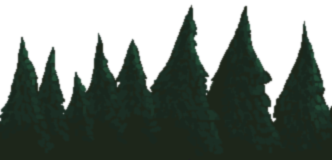
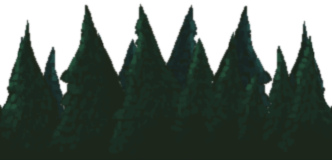
Increase view quality

diff --git a/js/drawing.js b/js/drawing.js
@@ -7,8 +7,8 @@ game.drawTile = function (tileColumn, tileRow, x, y) {
 		tileRow * game.options.tileHeight,
 		game.options.tileWidth,
 		game.options.tileHeight,
-		x * game.options.tileWidth - Math.round(game.player.x) + Math.round(game.canvas.width / 2 + game.options.tileWidth / 2),
-		y * game.options.tileHeight - Math.round(game.player.y) + Math.round(game.canvas.width / 2 + game.options.tileHeight / 2),
+		x * game.options.tileWidth - Math.round(game.player.x) + Math.round(game.options.canvasWidth / 2 + game.options.tileWidth / 2),
+		y * game.options.tileHeight - Math.round(game.player.y) + Math.round(game.options.canvasHeight / 2 + game.options.tileHeight / 2),
 		game.options.tileWidth,
 		game.options.tileHeight
 	)
@@ -29,8 +29,8 @@ game.drawPlayer = function () {
 		actualPlayerTile.tileRow * game.options.tileHeight,
 		game.options.tileWidth,
 		game.options.tileHeight,
-		Math.round(game.canvas.width / 2 - game.options.tileWidth / 2),
-		game.canvas.height / 2 - game.options.tileHeight / 2,
+		Math.round(game.options.canvasWidth / 2 - game.options.tileWidth / 2),
+		Math.round(game.options.canvasHeight / 2 - game.options.tileHeight / 2),
 		game.options.tileWidth,
 		game.options.tileHeight
 	)
@@ -44,13 +44,14 @@ game.redraw = function () {
 		var pattern = game.context.createPattern(game.backgrounds['sky'].image, 'repeat') // Create a pattern with this image, and set it to "repeat".
 		game.context.fillStyle = pattern
 	} else {
-		game.context.fillStyle = "#a5d9ff"
+		game.context.fillStyle = "#78c5ff"
 	}
 
 	game.context.fillRect(0, 0, game.canvas.width, game.canvas.height)
 
 	if (game.backgrounds['trees'].loaded) {
-		game.context.drawImage(game.backgrounds['trees'].image, 0, game.canvas.height / 2 - game.player.y / 10, 332, 160)
+		game.context.drawImage(game.backgrounds['trees'].image, 0, game.canvas.height / 2 - game.player.y / 10, 332, 180)
+		game.context.drawImage(game.backgrounds['trees'].image, 332, game.canvas.height / 2 - game.player.y / 10, 332, 180)
 	}
 
 	// List nearest structures
@@ -75,11 +76,7 @@ game.redraw = function () {
 	// Draw the player
 	game.drawPlayer()
 
-	// Draw "GUI"
-	game.context.font = "12px superscript"
-	game.context.textAlign = "center"
-	game.context.fillStyle = "black"
-	game.context.fillText("Points: " + Math.round(-game.player.highestY / (3 * game.options.tileHeight)), game.canvas.width - 50, game.canvas.height - 12)
+	game.counter.innerHTML = "Points: " + Math.round(-game.player.highestY / (3 * game.options.tileHeight)), game.canvas.width - 50, game.canvas.height - 12
 }
 
 game.requestRedraw = function () {

diff --git a/index.html b/index.html
@@ -5,7 +5,10 @@
     <link rel="stylesheet" href="css/style.css">
   </head>
   <body>
-    <canvas id="canvas"></canvas>
+    <div class="game">
+      <canvas id="canvas"></canvas>
+      <p class="counter" id="counter">Points: 0</p>
+    </div>
     <script src="js/index.js"></script>
     <script src="js/player.js"></script>
     <script src="js/keyboard.js"></script>
@@ -15,6 +18,13 @@
       // Event listeners
       document.addEventListener("keydown", game.keydown.bind(game), false)
       document.addEventListener("keyup", game.keyup.bind(game), false)
+      document.body.onresize = function () {
+        game.options.canvasWidth = window.innerWidth / 3,
+        game.options.canvasHeight = window.innerHeight / 3
+        game.canvas.width = game.options.canvasWidth
+        game.canvas.height = game.options.canvasHeight
+        game.requestRedraw()
+      }
 
       game.init(function () {
       	game.generateMap()

diff --git a/css/style.css b/css/style.css
@@ -13,7 +13,8 @@ html,
 body {
   margin: 0;
   padding: 0;
-  height: 100vh;
+  height: 100%;
+  width: 100%;
   background: black;
   display: flex;
   align-items: center;
@@ -21,11 +22,27 @@ body {
 }
 
 canvas {
-  width: 700px;
-  height: 700px;
+  display: block;
+  width: 100%;
+  height: 100%;
   box-sizing: border-box;
   image-rendering: -moz-crisp-edges;
   image-rendering: -webkit-crisp-edges;
   image-rendering: pixelated;
   image-rendering: crisp-edges;
+}
+.game {
+  width: 100%;
+  height: 100%;
+  position: relative;
+}
+.counter {
+  font-family: 'superscript', Arial, sans-serif;
+  font-size: 22px;
+  color: black;
+  position: absolute;
+  bottom: 0;
+  right: 20px;
+  text-align: center;
+  z-index: 2;
 }

diff --git a/js/index.js b/js/index.js
@@ -2,6 +2,7 @@
 var game = {
 	canvas: document.getElementById('canvas'),
 	context: this.canvas.getContext('2d', {alpha: false}),
+	counter: document.getElementById('counter'),
 	textures: new Image(),
 	drawPending: false,
 	backgrounds: {
@@ -18,8 +19,8 @@ var game = {
 		texturesPath: "textures.png",
 		tileWidth: 24,
 		tileHeight: 24,
-		canvasWidth: 300,
-		canvasHeight: 300
+		canvasWidth: window.innerWidth / 3,
+		canvasHeight: window.innerHeight / 3
 	},
 	pressedKeys: {},
 	init: function (onInit) {
